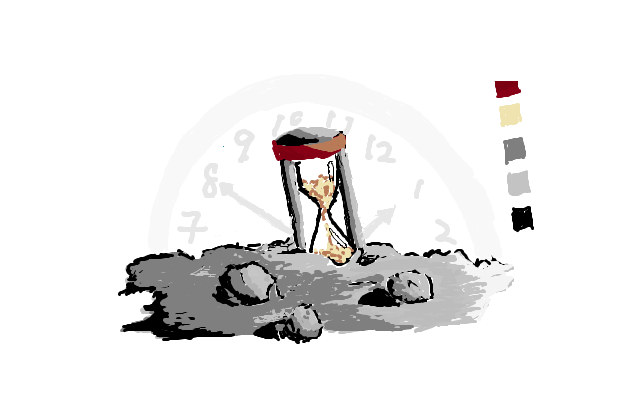
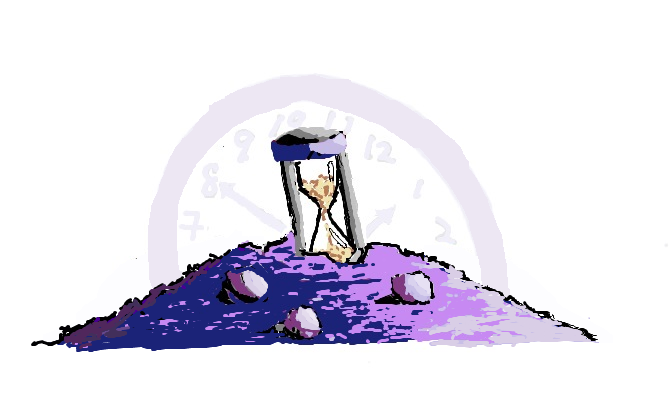
feat: finished

Changed region(s): [[0.0312, 0.3, 0.9048, 0.9], [0.7488, 0.18, 0.8424, 0.48], [0.78, 0.51, 0.8424, 0.57]]

diff --git a/src/popup/components/ConvertedTime.js b/src/popup/components/ConvertedTime.js
@@ -3,6 +3,7 @@ import Collapse from '@material-ui/core/Collapse'
 import Link from '@material-ui/core/Link'
 import Typography from '@material-ui/core/Typography'
 import CalendarTodayIcon from '@material-ui/icons/CalendarToday'
+import withTheme from '@material-ui/styles/withTheme'
 import 'date-fns'
 import {
   convertToTimeZone,
@@ -20,25 +21,44 @@ import Outlook from './CalendarButtons/Outlook'
 import Yahoo from './CalendarButtons/Yahoo'
 
 const CALENDAR_DURATION = 10
+const TIME_QUOTES = [
+  {
+    quote: 'Time waits for no one.',
+    speaker: 'Folklore'
+  },
+  {
+    quote: 'Time is the wisest counselor of all.',
+    speaker: 'Pericles'
+  },
+  {
+    quote: 'Lost time is never found again.',
+    speaker: 'Benjamin Franklin'
+  },
+  {
+    quote: 'Time is the most valuable thing a man can spend.',
+    speaker: 'Theophrastus'
+  }
+]
 
 const ResultsWrapper = styled.div`
 	width: 100%;
 	margin-top: 10px;
 	padding: 8px;
-	background: #e0e0e0;
-	border-radius: 3px;
+  border-radius: 3px;
+  font-weight: 500;
+  color: #ffffff;
 `
 
 const ImageWrapper = styled.div`
-  width: 100%;
-  display: flex;
-  flex-direction: column;
-  align-items: center;
-  justify-content: center;
+	width: 100%;
+	display: flex;
+	flex-direction: column;
+	align-items: center;
+	justify-content: center;
 
-  & img {
-    height: 74px;
-  }
+	& img {
+		height: 97px;
+	}
 `
 
 const AddToCalendarWrapper = styled.div`
@@ -53,19 +73,18 @@ const CalendarRow = styled.div`
 	padding: 4px;
 `
 
-const ConvertedTime = () => {
+const ConvertedTime = ({ theme }) => {
   const { time, timeZoneFrom, timeZoneTo } = useTimeContext()
   const [addCalendar, setAddCalendar] = useState(false)
 
   if (time && timeZoneFrom && timeZoneTo) {
     const utcDate = parseFromTimeZone(time, { timeZone: timeZoneFrom })
-    const output = formatToTimeZone(utcDate, 'M/D/YYYY HH:mm:ssA dddd', {
+    const output = formatToTimeZone(utcDate, 'M/D/YYYY HH:mmA dddd', {
       timeZone: timeZoneTo
     })
     const outputDate = convertToTimeZone(utcDate, {
       timeZone: timeZoneTo
     })
-
 
     const links = calendarGenerators({
       title: 'Do Something Productive',
@@ -78,17 +97,17 @@ const ConvertedTime = () => {
     return (
       <SectionCard>
         <SectionTitle>Converted Time</SectionTitle>
-        <ResultsWrapper>{output}</ResultsWrapper>
+        <ResultsWrapper style={{ background: theme.palette.primary.main }}>{output}</ResultsWrapper>
         <AddToCalendarWrapper>
           <Button
             style={{
               textTransform: 'none'
             }}
-            startIcon={<CalendarTodayIcon />}
+            startIcon={<CalendarTodayIcon style={{ color: theme.palette.primary.main }} />}
             onClick={() => setAddCalendar(!addCalendar)}
           >
             Add to Calendar
-          </Button>
+					</Button>
           <Collapse in={addCalendar}>
             <CalendarRow>
               <Link href={links.ical} target="_blank">
@@ -112,14 +131,22 @@ const ConvertedTime = () => {
     )
   }
 
-  return <SectionCard>
-    <SectionTitle>Converted Time</SectionTitle>
-    <ImageWrapper>
-      <img src={getChromeUrl(TimeIsLonelyPNG)} alt="time is lonely" />
-      <Typography style={{ color: '#828282', fontSize: 14 }}>Time is lonely...</Typography>
-    </ImageWrapper>
-  </SectionCard>
+  const randomQuote = TIME_QUOTES[Math.floor(Math.random() * TIME_QUOTES.length)]
 
+  return (
+    <SectionCard>
+      <SectionTitle>Converted Time</SectionTitle>
+      <ImageWrapper>
+        <img src={getChromeUrl(TimeIsLonelyPNG)} alt="time is lonely" />
+        <Typography style={{ color: '#828282', fontSize: 14, textAlign: 'center' }}>
+          “{randomQuote.quote}”
+				</Typography>
+        <Typography style={{ color: '#BDBDBD', fontSize: 14 }}>
+          - {randomQuote.speaker}
+        </Typography>
+      </ImageWrapper>
+    </SectionCard>
+  )
 }
 
-export default ConvertedTime
+export default withTheme(ConvertedTime)
